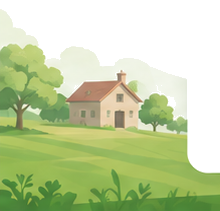
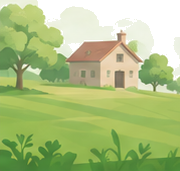
Cart: pristine transparent graphics without ghost background, bumped cache busters

diff --git a/index.html b/index.html
@@ -22,8 +22,8 @@
     <link rel="preconnect" href="https://fonts.googleapis.com">
     <link rel="preconnect" href="https://fonts.gstatic.com" crossorigin>
     <link href="https://fonts.googleapis.com/css2?family=Inter:wght@300;400;500;600;700;800&family=Outfit:wght@300;400;500;600;700;800&family=Playfair+Display:wght@700;800;900&display=swap" rel="stylesheet">
-    <link rel="stylesheet" href="./style.css?v=6" />
-    <link rel="stylesheet" href="./mobile.css?v=6" />
+    <link rel="stylesheet" href="./style.css?v=8" />
+    <link rel="stylesheet" href="./mobile.css?v=8" />
     <script src="https://cdn.jsdelivr.net/npm/canvas-confetti@1.6.0/dist/confetti.browser.min.js"></script>
     <script type="module" src="/main.js" defer></script>
     <script type="module" src="/mobile.js" defer></script>
